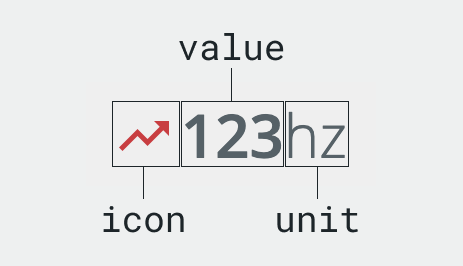
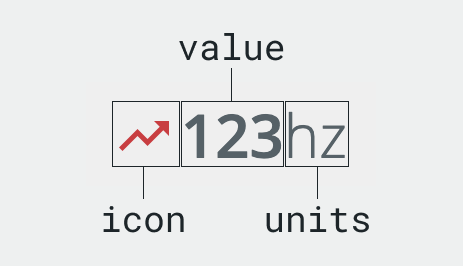
Units -> unit

Changed region(s): [[0.5745, 0.782, 0.8164, 0.8722]]

diff --git a/demos/showcase/src/App.js b/demos/showcase/src/App.js
@@ -253,14 +253,14 @@ export default () => {
                                         label={'Temperature'}
                                         iconSize={48}
                                         value={98}
-                                        unit={'°F'}
+                                        units={'°F'}
                                         fontSize={'normal'}
                                     />
                                     <Hero
                                         icon={<Humidity fontSize={'inherit'} htmlColor={Colors.blue[300]} />}
                                         label={'Humidity'}
                                         value={54}
-                                        unit={'%'}
+                                        units={'%'}
                                         iconSize={48}
                                         fontSize={'normal'}
                                     />
@@ -311,7 +311,7 @@ export default () => {
                                         label={'Health'}
                                         iconSize={72}
                                         value={98}
-                                        unit={'%'}
+                                        units={'%'}
                                         fontSize={'normal'}
                                     />
                                 </HeroBanner>
@@ -353,7 +353,7 @@ export default () => {
                                     }
                                     label={'Healthy'}
                                     value={96}
-                                    unit={'/100'}
+                                    units={'/100'}
                                     fontSize={'normal'}
                                 />
                                 <Hero
@@ -363,7 +363,7 @@ export default () => {
                                 >
                                     <ChannelValue
                                         value={65}
-                                        unit={'%'}
+                                        units={'%'}
                                         icon={<Trend htmlColor={Colors.red[500]} fontSize={'inherit'} />}
                                     />
                                 </Hero>
@@ -372,8 +372,8 @@ export default () => {
                                     label={'Estimated'}
                                     fontSize={'normal'}
                                 >
-                                    <ChannelValue value={1} unit={'h'} />
-                                    <ChannelValue value={26} unit={'m'} />
+                                    <ChannelValue value={1} units={'h'} />
+                                    <ChannelValue value={26} units={'m'} />
                                 </Hero>
                                 <Hero
                                     icon={<Battery color={Colors.blue[500]} percent={100} size={36} />}
@@ -401,9 +401,9 @@ export default () => {
                                 icon={<VoltageCircled />}
                                 rightComponent={
                                     <span>
-                                        <ChannelValue fontSize={16} value={478} unit={'V'} />,{' '}
-                                        <ChannelValue fontSize={16} value={479} unit={'V'} />,{' '}
-                                        <ChannelValue fontSize={16} value={473} unit={'V'} />
+                                        <ChannelValue fontSize={16} value={478} units={'V'} />,{' '}
+                                        <ChannelValue fontSize={16} value={479} units={'V'} />,{' '}
+                                        <ChannelValue fontSize={16} value={473} units={'V'} />
                                     </span>
                                 }
                             />
@@ -418,9 +418,9 @@ export default () => {
                                 rightComponent={
                                     <span style={{ color: Colors.red[500] }}>
                                         <ListItemTag label={'monitored'} style={{ marginRight: 8 }} />
-                                        <ChannelValue fontSize={16} value={480} unit={'V'} />,{' '}
-                                        <ChannelValue fontSize={16} value={480} unit={'V'} />,{' '}
-                                        <ChannelValue fontSize={16} value={480} unit={'V'} />
+                                        <ChannelValue fontSize={16} value={480} units={'V'} />,{' '}
+                                        <ChannelValue fontSize={16} value={480} units={'V'} />,{' '}
+                                        <ChannelValue fontSize={16} value={480} units={'V'} />
                                     </span>
                                 }
                             />
@@ -431,9 +431,9 @@ export default () => {
                                 icon={<CurrentCircled color={'inherit'} />}
                                 rightComponent={
                                     <span>
-                                        <ChannelValue fontSize={16} value={15} unit={'A'} />,{' '}
-                                        <ChannelValue fontSize={16} value={14.9} unit={'A'} />,{' '}
-                                        <ChannelValue fontSize={16} value={15} unit={'A'} />
+                                        <ChannelValue fontSize={16} value={15} units={'A'} />,{' '}
+                                        <ChannelValue fontSize={16} value={14.9} units={'A'} />,{' '}
+                                        <ChannelValue fontSize={16} value={15} units={'A'} />
                                     </span>
                                 }
                             />
@@ -461,7 +461,7 @@ export default () => {
                                             fontSize={16}
                                             icon={<Trend htmlColor={Colors.red[500]} />}
                                             value={68}
-                                            unit={'°F'}
+                                            units={'°F'}
                                         />
                                     </div>
                                 }

diff --git a/components/src/core/ChannelValue/ChannelValue.tsx b/components/src/core/ChannelValue/ChannelValue.tsx
@@ -33,33 +33,30 @@ export type ChannelValueProps = {
     fontSize?: number | string;
     icon?: JSX.Element;
     prefix?: boolean;
-    unit?: string; // alias units
     units?: string;
     value: number | string;
 };
 
 export const ChannelValue: React.FC<ChannelValueProps> = (props) => {
-    const { color, fontSize, icon, prefix, value, unit: unitAlias, units } = props;
+    const { color, fontSize, icon, prefix, value, units } = props;
     const classes = styles(props);
-
-    const unit = unitAlias || units;
 
     const getUnitElement = useCallback(
         (): JSX.Element => (
             <>
-                {unit && (
+                {units && (
                     <Typography
                         variant={'h6'}
                         color={'inherit'}
                         className={combine([classes.text, classes.unit])}
                         data-test={'unit'}
                     >
-                        {unit}
+                        {units}
                     </Typography>
                 )}
             </>
         ),
-        [unit, units, classes, combine]
+        [units, classes, combine]
     );
 
     const changeIconDisplay = (newIcon: JSX.Element): JSX.Element =>
@@ -94,7 +91,6 @@ ChannelValue.propTypes = {
     fontSize: PropTypes.oneOfType([PropTypes.string, PropTypes.number]),
     icon: PropTypes.element,
     prefix: PropTypes.bool,
-    unit: PropTypes.string,
     units: PropTypes.string,
     value: PropTypes.oneOfType([PropTypes.string, PropTypes.number]).isRequired,
 };

diff --git a/components/src/core/Hero/Hero.tsx b/components/src/core/Hero/Hero.tsx
@@ -67,7 +67,6 @@ export type HeroProps = {
     onClick?: Function;
     value?: string | number;
     valueIcon?: JSX.Element;
-    unit?: string; // alias units
     units?: string;
 };
 
@@ -82,11 +81,8 @@ export const Hero = (props: HeroProps): JSX.Element => {
         onClick,
         value,
         valueIcon,
-        unit: aliasUnit,
         units,
     } = props;
-
-    const unit = aliasUnit || units;
 
     return (
         <div
@@ -108,7 +104,7 @@ export const Hero = (props: HeroProps): JSX.Element => {
                 {icon}
             </span>
             <span className={classes.values} style={{ fontSize: normalizeFontSize(fontSize) }}>
-                {!props.children && value && <ChannelValue value={value} unit={unit} icon={valueIcon} />}
+                {!props.children && value && <ChannelValue value={value} units={units} icon={valueIcon} />}
                 {props.children}
             </span>
             <Typography variant={'subtitle1'} color={'inherit'} className={classes.label}>
@@ -129,7 +125,6 @@ Hero.propType = {
     onClick: PropTypes.func,
     value: PropTypes.oneOfType([PropTypes.string, PropTypes.number]),
     valueIcon: PropTypes.element,
-    unit: PropTypes.string,
     units: PropTypes.string,
 };
 Hero.defaultProps = {

diff --git a/demos/storybook/stories/hero/within-a-HeroBanner.tsx b/demos/storybook/stories/hero/within-a-HeroBanner.tsx
@@ -12,14 +12,14 @@ export const inBanner = (): StoryFnReactReturnType => {
             icon={<GradeA fontSize={'inherit'} htmlColor={Colors.green[500]} />}
             label={'Healthy'}
             value={96}
-            unit={'/100'}
+            units={'/100'}
         />,
         <Hero
             key={'hero2'}
             icon={<CurrentCircled fontSize={'inherit'} htmlColor={Colors.yellow[500]} />}
             label={'Load'}
             value={'90'}
-            unit={'%'}
+            units={'%'}
             fontSize={'normal'}
         />,
         <Hero
@@ -27,14 +27,14 @@ export const inBanner = (): StoryFnReactReturnType => {
             icon={<Temp fontSize={'inherit'} htmlColor={Colors.green[500]} />}
             label={'Temp'}
             value={55}
-            unit={'C'}
+            units={'C'}
         />,
         <Hero
             key={'hero4'}
             icon={<Leaf fontSize={'inherit'} htmlColor={Colors.green[500]} />}
             label={'Battery'}
             value={96}
-            unit={'/100'}
+            units={'/100'}
         />,
     ];
     const numberDisplayed = number('count', 4, { range: true, min: 0, max: 4, step: 1 });

diff --git a/demos/storybook/stories/channel-value/with-full-config.tsx b/demos/storybook/stories/channel-value/with-full-config.tsx
@@ -8,14 +8,14 @@ import { WITH_FULL_CONFIG_STORY_NAME } from '../../src/constants';
 
 export const withFullConfig = (): StoryFnReactReturnType => {
     const value = text('value', '123');
-    const unit = text('unit', 'hz');
+    const units = text('units', 'hz');
     const textColor = color('color', Colors.red[500]);
     const iconColor = color('icon.htmlColor', Colors.black[500]);
     const icon = boolean('Show Icon', true) ? <Trend htmlColor={iconColor} /> : undefined;
     const fontSize = number('fontSize', 30);
     const prefix = boolean('prefix', false);
 
-    return <ChannelValue value={value} unit={unit} color={textColor} icon={icon} fontSize={fontSize} prefix={prefix} />;
+    return <ChannelValue value={value} units={units} color={textColor} icon={icon} fontSize={fontSize} prefix={prefix} />;
 };
 
 withFullConfig.story = { name: WITH_FULL_CONFIG_STORY_NAME };

diff --git a/demos/storybook/stories/drawer/with-multiple-DrawerNavGroups.tsx b/demos/storybook/stories/drawer/with-multiple-DrawerNavGroups.tsx
@@ -31,13 +31,13 @@ export const withMultipleNavGroups = (context: DrawerStoryContext): StoryFnReact
         <DrawerHeader icon={<Menu />} title={'PX Blue Drawer'} subtitle={'with multiple navigation groups'} />
         <DrawerBody>
             <DrawerNavGroup
-                title={text('title1', 'First DrawerNavGroup')}
+                title={text('navGroup[0].title', 'First DrawerNavGroup')}
                 activeItem={context.state.selected}
                 items={navGroupItems1}
             />
             {boolean('Add Spacer', false) && <Spacer />}
             <DrawerNavGroup
-                title={text('title2', 'Second DrawerNavGroup')}
+                title={text('navGroup[1].title', 'Second DrawerNavGroup')}
                 activeItem={context.state.selected}
                 items={navGroupItems2(context)}
             />

diff --git a/components/src/core/Drawer/Drawer.tsx b/components/src/core/Drawer/Drawer.tsx
@@ -96,9 +96,6 @@ export type DrawerComponentProps = {
     // drawer width
     width?: number;
 
-    // types of drawer
-    // only open or variant is allowed but not both
-    variant?: 'permanent' | 'persistent' | 'temporary';
 } & PXBlueDrawerInheritableGroupProperties &
     Omit<DrawerProps, 'translate'>;
 
@@ -224,7 +221,7 @@ export const DrawerComponent: React.FC<DrawerComponentProps> = (props) => {
             <>
                 <Drawer
                     {...drawerProps}
-                    variant={variant}
+                    variant={'permanent'}
                     open={isDrawerOpen()}
                     classes={{ paper: classes.paper }}
                     style={{ minHeight: '100%' }}

diff --git a/demos/storybook/stories/hero/with-channelValue-children.tsx b/demos/storybook/stories/hero/with-channelValue-children.tsx
@@ -6,8 +6,8 @@ import React from 'react';
 
 export const withChannelValueChildren = (): StoryFnReactReturnType => (
     <Hero label={'Duration'} icon={<Schedule fontSize={'inherit'} />}>
-        <ChannelValue fontSize={'large'} value={number('ChannelValue.hours', 1)} unit={'h'} />
-        <ChannelValue fontSize={'large'} value={number('ChannelValue.minutes', 27)} unit={'m'} />
+        <ChannelValue fontSize={'large'} value={number('ChannelValue.hours', 1)} units={'h'} />
+        <ChannelValue fontSize={'large'} value={number('ChannelValue.minutes', 27)} units={'m'} />
     </Hero>
 );
 

diff --git a/components/src/core/Drawer/DrawerBody.tsx b/components/src/core/Drawer/DrawerBody.tsx
@@ -36,7 +36,7 @@ export const DrawerBody: React.FC<DrawerBodyProps> = (bodyProps) => {
                 return (
                     <DrawerNavGroup
                         {...groupProps}
-                        key={index.toString()}
+                        key={`NavGroup_${index}`}
                         activeItem={groupProps.activeItem || bodyProps.activeItem}
                         activeItemBackgroundColor={
                             groupProps.activeItemBackgroundColor || bodyProps.activeItemBackgroundColor

diff --git a/components/src/core/ChannelValue/ChannelValue.test.tsx b/components/src/core/ChannelValue/ChannelValue.test.tsx
@@ -42,7 +42,7 @@ describe('ChannelValue', () => {
         expect(findByTestId('icon', wrapper).length).toEqual(0);
     });
     it('should render units properly', () => {
-        let wrapper = shallow(<ChannelValue value={1} unit={'X'} />);
+        let wrapper = shallow(<ChannelValue value={1} units={'X'} />);
         expect(findByTestId('unit', wrapper).length).toEqual(1);
         wrapper = shallow(<ChannelValue value={1} />);
         expect(findByTestId('unit', wrapper).length).toEqual(0);

diff --git a/demos/storybook/stories/channel-value/with-icon.tsx b/demos/storybook/stories/channel-value/with-icon.tsx
@@ -6,7 +6,7 @@ import { StoryFnReactReturnType } from '@storybook/react/dist/client/preview/typ
 import React from 'react';
 
 export const withIcon = (): StoryFnReactReturnType => (
-    <ChannelValue value={'123'} unit={'hz'} icon={<Trend htmlColor={color('icon.htmlColor', Colors.red[500])} />} />
+    <ChannelValue value={'123'} units={'hz'} icon={<Trend htmlColor={color('icon.htmlColor', Colors.red[500])} />} />
 );
 
 withIcon.story = { name: 'with icon' };

diff --git a/demos/storybook/stories/channel-value/with-units.tsx b/demos/storybook/stories/channel-value/with-units.tsx
@@ -3,6 +3,6 @@ import { text } from '@storybook/addon-knobs';
 import { StoryFnReactReturnType } from '@storybook/react/dist/client/preview/types';
 import React from 'react';
 
-export const withUnits = (): StoryFnReactReturnType => <ChannelValue value={'123'} unit={text('units', 'hz')} />;
+export const withUnits = (): StoryFnReactReturnType => <ChannelValue value={'123'} units={text('units', 'hz')} />;
 
 withUnits.story = { name: 'with units' };
